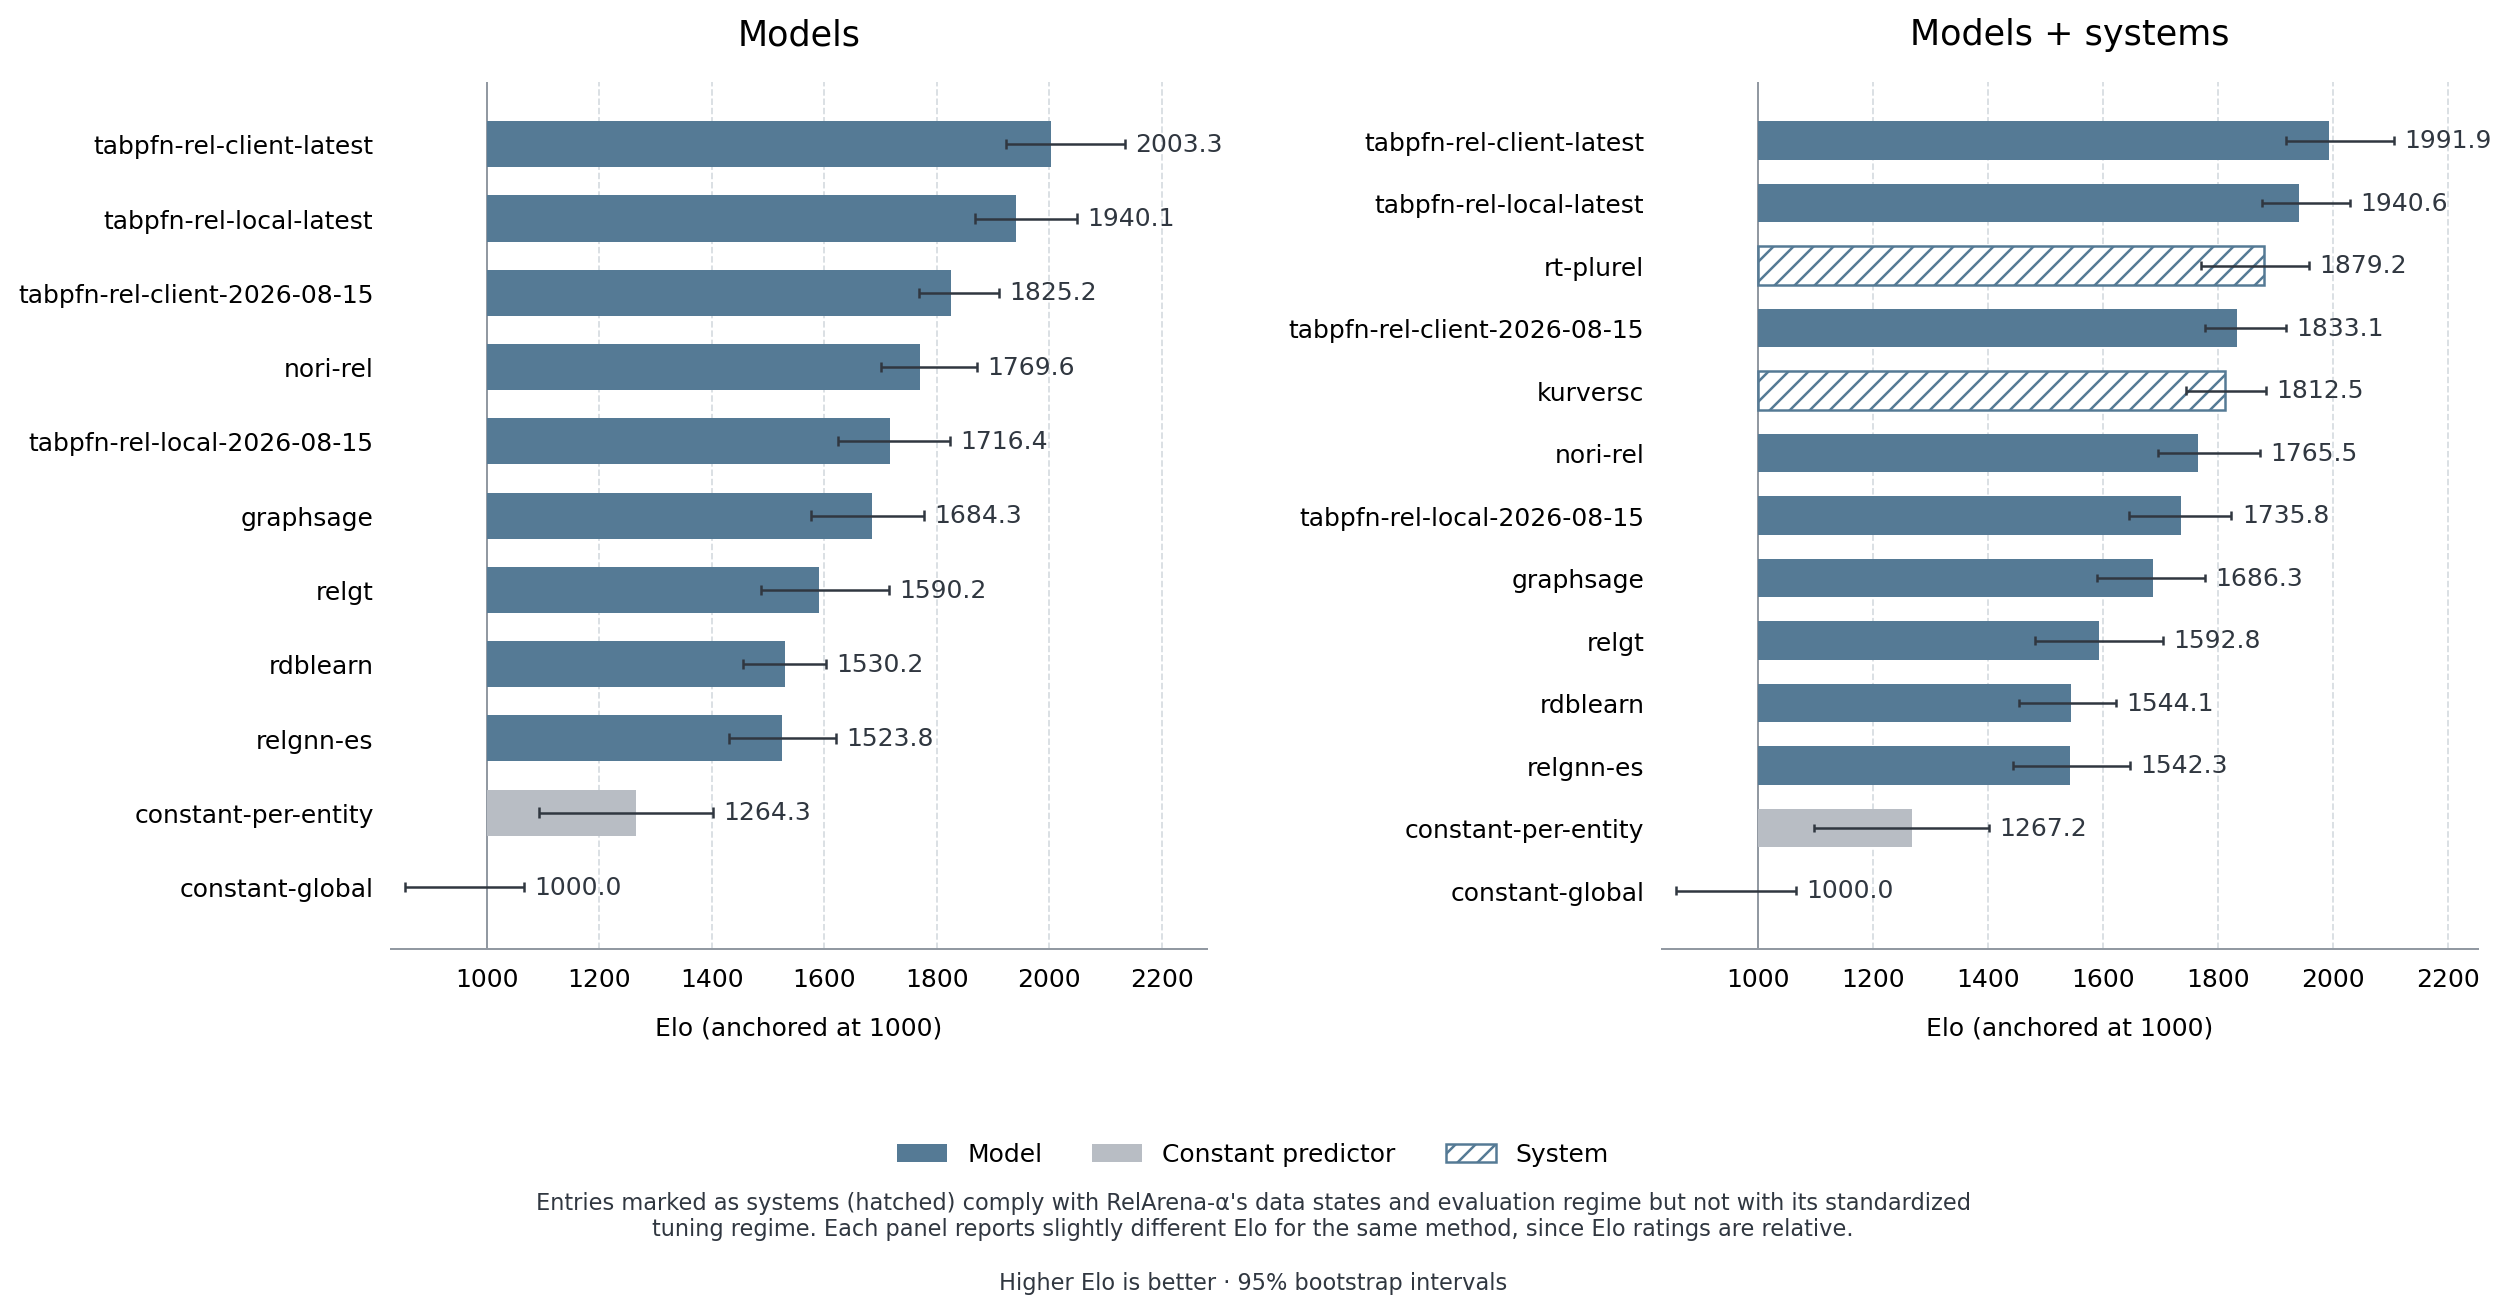
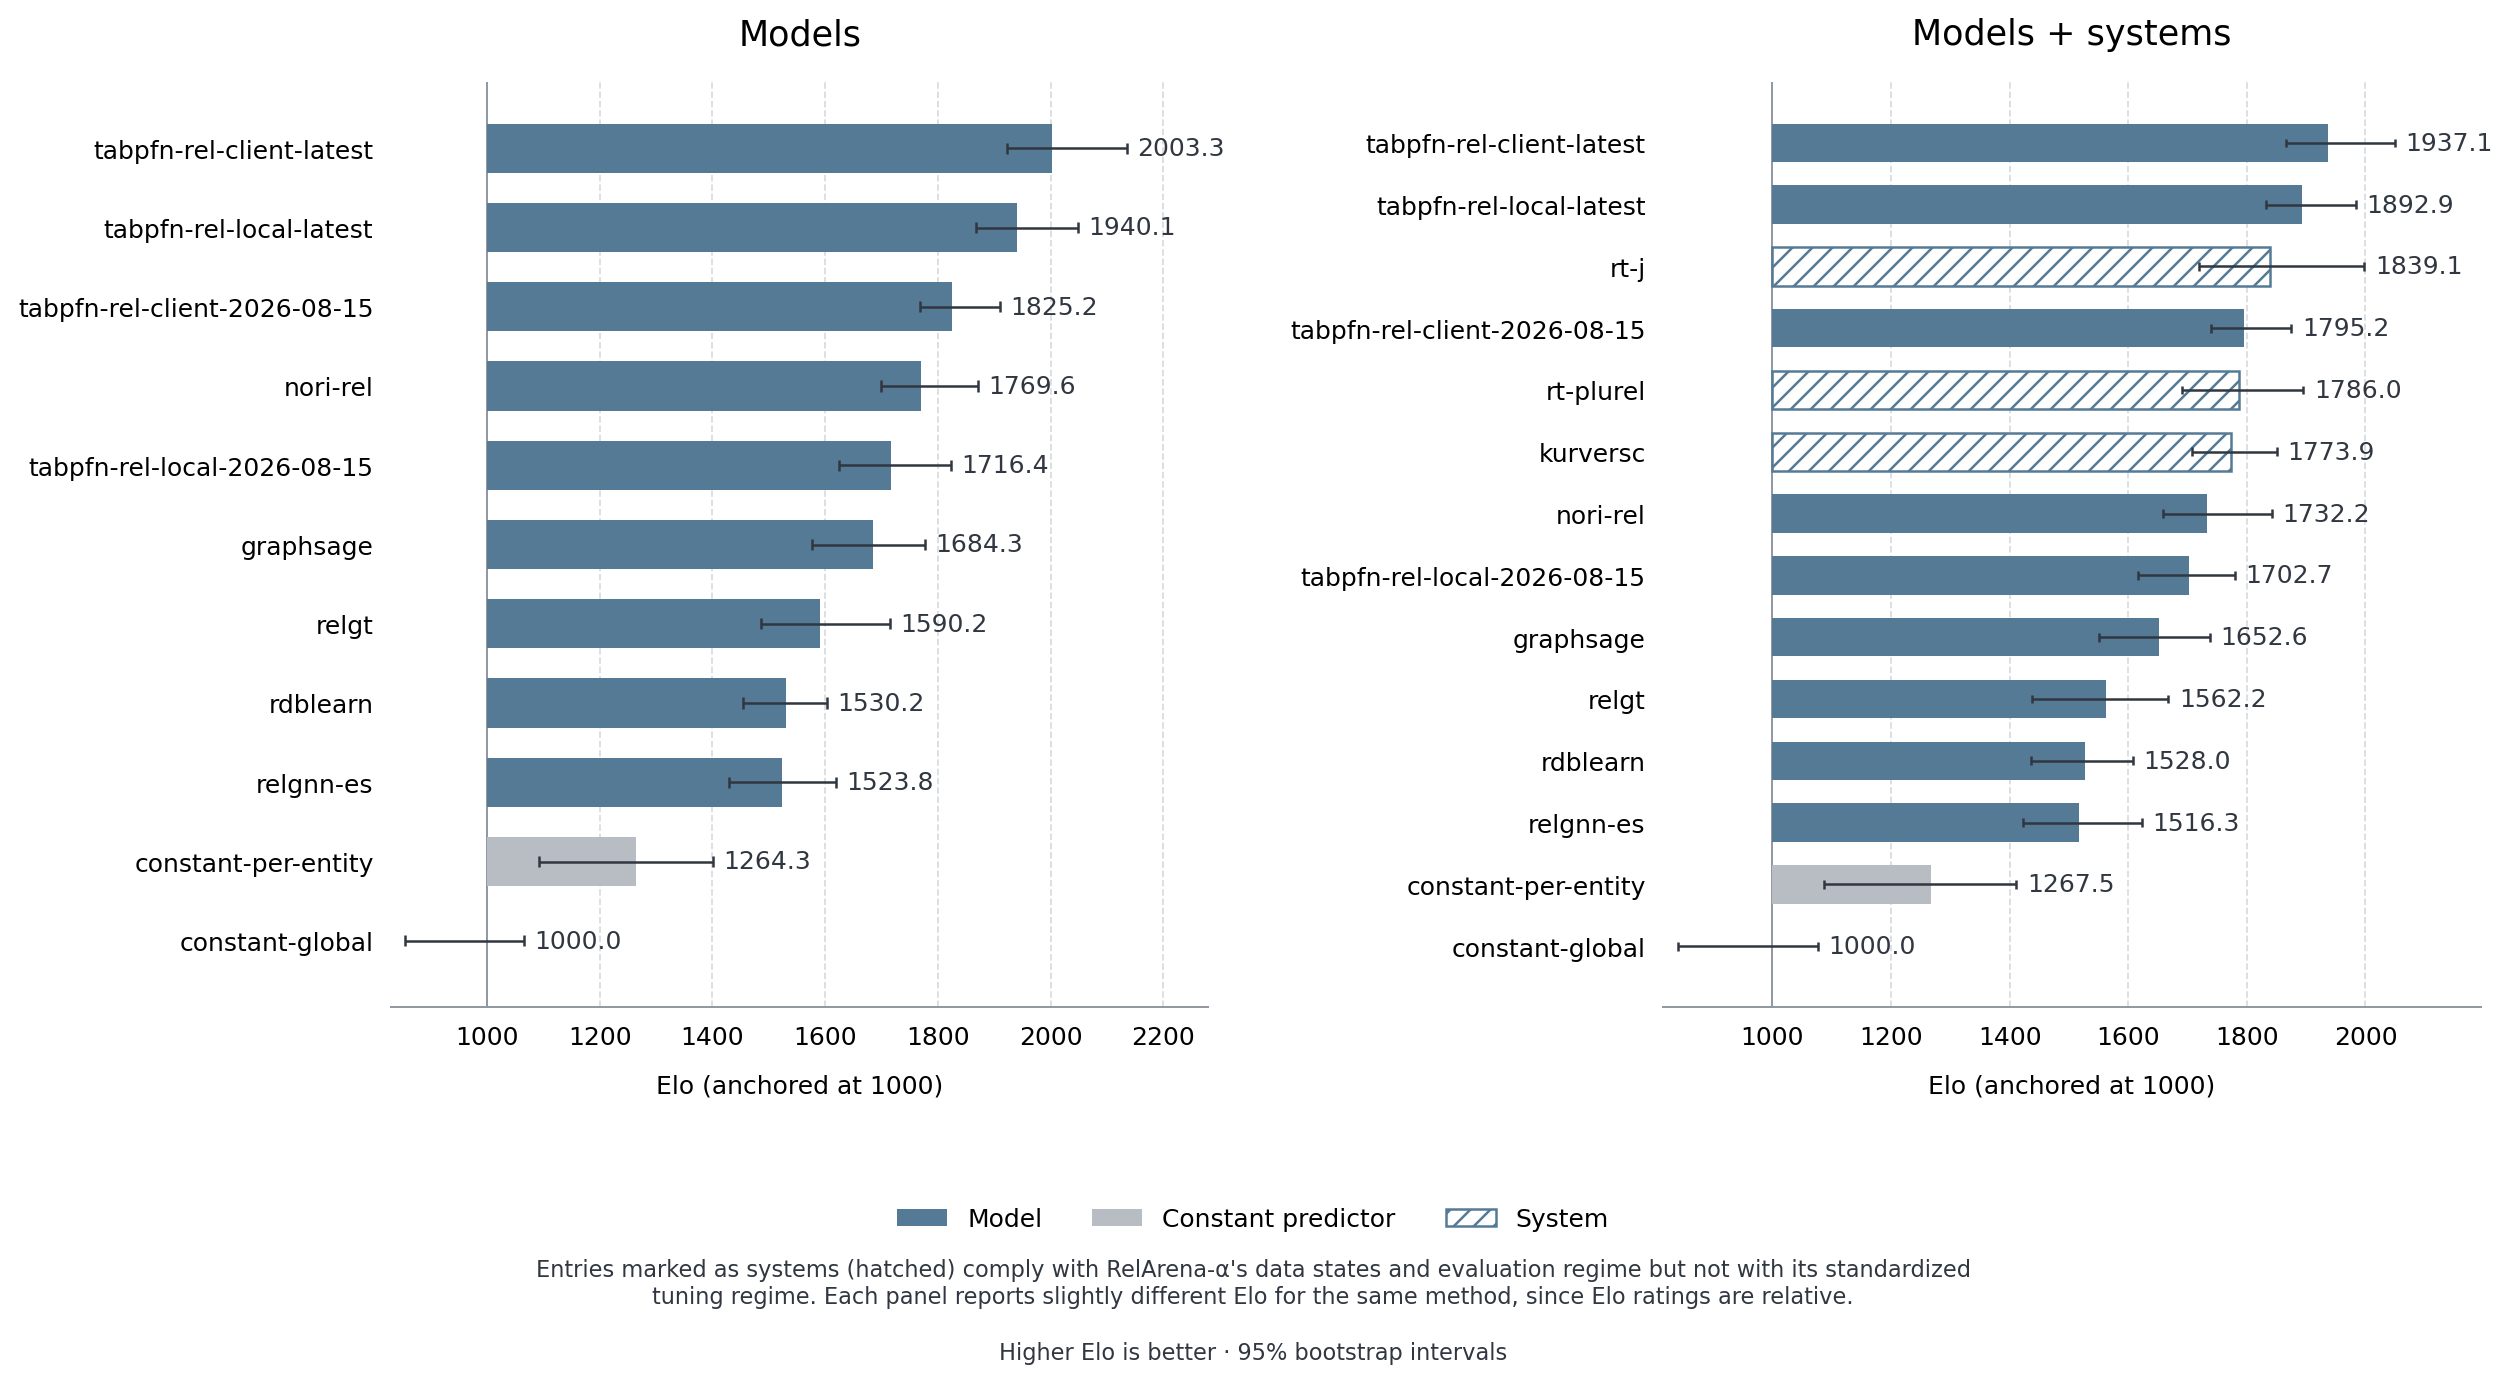
Report RT 1.10 results for rt-plurel and rt-j, default tokens_per_gpu to 2**17
Replace the rt-plurel rows with runs at this branch's head and add rt-j
(21 tasks each, seed 0, RTX PRO 6000), then regenerate the leaderboards.
2**18 tokens per GPU runs out of memory on a 96 GB RTX PRO 6000 under
rt 1.10.0, so the default is 2**17 everywhere.

diff --git a/packages/relarena/src/relarena/models/rt/config.py b/packages/relarena/src/relarena/models/rt/config.py
@@ -679,25 +679,14 @@ TOKENS_PER_GPU_ENV = "RELARENA_RT_TOKENS_PER_GPU"
 
 
 def tokens_per_gpu() -> int:
-    """Training tokens per forward per GPU: `2**18` on Blackwell, else `2**17`.
+    """Training tokens per forward per GPU: `2**17` unless `TOKENS_PER_GPU_ENV` is set.
 
-    A B200 holds twice what an A100 does, and filling it halves the number of
-    gradient-accumulation micro-steps per optimizer step. Upstream picks the
-    value from the slurm resource it asked for; here it is read off the device,
-    which is the same choice made locally, and `TOKENS_PER_GPU_ENV` overrides
-    both — for a node whose card is not what its capability implies, or to hold
-    the value fixed while timing two machines against each other.
+    `2**18` runs out of memory on a 96 GB RTX PRO 6000 under rt 1.10.0, at the
+    first training step after the step-0 eval; the reported results ran at `2**17`.
     """
     override = os.environ.get(TOKENS_PER_GPU_ENV)
     if override:
         return int(override)
-    try:
-        import torch
-
-        if torch.cuda.is_available() and torch.cuda.get_device_capability()[0] >= 10:
-            return 2**18
-    except Exception:  # pragma: no cover - absent torch/CUDA is not an error
-        pass
     return 2**17
 
 

diff --git a/README.md b/README.md
@@ -89,20 +89,21 @@ they do not measure variation across training seeds. The plots and tables show t
 
 | Rank | Method | Kind | Elo | 95% bootstrap interval |
 |---:|---|---|---:|---:|
-| 1 | tabpfn-rel-client-latest | Model | 1991.9 | 1917.4–2106.0 |
-| 2 | tabpfn-rel-local-latest | Model | 1940.6 | 1876.2–2029.6 |
-| 3 | rt-plurel | System | 1879.2 | 1770.3–1956.9 |
-| 4 | tabpfn-rel-client-2026-08-15 | Model | 1833.1 | 1776.8–1917.6 |
-| 5 | kurversc | System | 1812.5 | 1743.1–1882.1 |
-| 6 | nori-rel | Model | 1765.5 | 1694.8–1872.4 |
-| 7 | tabpfn-rel-local-2026-08-15 | Model | 1735.8 | 1644.8–1822.9 |
-| 8 | graphsage | Model | 1686.3 | 1588.9–1776.7 |
-| 9 | relgt | Model | 1592.8 | 1481.8–1704.3 |
-| 10 | rdblearn | Model | 1544.1 | 1453.2–1621.7 |
-| 11 | relgnn-es | Model | 1542.3 | 1442.8–1647.1 |
-| 12 | lightgbm | Model | 1366.3 | 1215.6–1476.9 |
-| 13 | constant-per-entity | Model | 1267.2 | 1097.4–1401.0 |
-| 14 | constant-global | Model | 1000.0 | 858.0–1065.9 |
+| 1 | tabpfn-rel-client-latest | Model | 1937.1 | 1865.8–2049.0 |
+| 2 | tabpfn-rel-local-latest | Model | 1892.9 | 1832.2–1983.2 |
+| 3 | rt-j | System | 1839.1 | 1718.7–1998.2 |
+| 4 | tabpfn-rel-client-2026-08-15 | Model | 1795.2 | 1739.4–1875.2 |
+| 5 | rt-plurel | System | 1786.0 | 1690.7–1895.1 |
+| 6 | kurversc | System | 1773.9 | 1707.9–1850.5 |
+| 7 | nori-rel | Model | 1732.2 | 1659.0–1842.1 |
+| 8 | tabpfn-rel-local-2026-08-15 | Model | 1702.7 | 1617.3–1779.5 |
+| 9 | graphsage | Model | 1652.6 | 1551.3–1737.4 |
+| 10 | relgt | Model | 1562.2 | 1437.6–1667.5 |
+| 11 | rdblearn | Model | 1528.0 | 1436.1–1607.3 |
+| 12 | relgnn-es | Model | 1516.3 | 1422.6–1622.6 |
+| 13 | lightgbm | Model | 1361.3 | 1171.5–1490.8 |
+| 14 | constant-per-entity | Model | 1267.5 | 1086.9–1411.2 |
+| 15 | constant-global | Model | 1000.0 | 841.1–1076.7 |
 
 </details>
 
@@ -633,7 +634,7 @@ as an experimental final-fit variant.
 | `relgnn` | RelGNN full-data refit | relational GNN | model | experimental variant | train + val | `relgnn` |
 | `relgt` | RelGT | relational transformer | model | report | best-validation checkpoint | `relgt` |
 | `rt-plurel` | RT-PluRel | pretrained relational transformer, fine-tuned per task | **system** | report | train + val | `rt` |
-| `rt-j` | RT-J | pretrained relational transformer, fine-tuned per task | **system** | pending evaluation | train + val | `rt` |
+| `rt-j` | RT-J | pretrained relational transformer, fine-tuned per task | **system** | 21 tasks | train + val | `rt` |
 
 The report presents `relgnn-es` simply as **RelGNN**, because that published-style
 best-validation-checkpoint regime performed better in our runs. The regular `relgnn` identifier

diff --git a/docs/tuning-regime.md b/docs/tuning-regime.md
@@ -102,10 +102,10 @@ definitely not reasonable. Currently, all methods but `relgt` use a fixed-size
 search space per dataset, i.e. they don't adjust it to the dataset size. In
 general, methods should not aim to exhaust the 24h allowance. Nearly all run
 for at most 12h of recorded runtime per task, even on the largest tasks
-(excluding cached pre-processing). Only `relgt` and `rt-plurel` currently break
-the 12h barrier, both excluding their pre-processing: `relgt` with up to 41h of
-pure GPU time on `rel-avito/user-visits`, and `rt-plurel` with up to 16.3h on
-the largest `rel-amazon` task.
+(excluding cached pre-processing). Only `relgt`, `rt-plurel` and `rt-j`
+currently break the 12h barrier, all excluding their pre-processing: `relgt`
+with up to 41h of pure GPU time on `rel-avito/user-visits`, and `rt-plurel` and
+`rt-j` with up to 16.1h and 17.3h on `rel-amazon` tasks.
 
 ## What we ran
 
@@ -149,7 +149,8 @@ hours (`rdblearn`, `tabpfn-rel`, RelGNN, `relgt`):_
 | `tabpfn-rel-client-2026-08-15` | 3 | 73.4 min | 15.2 min | 63.3 min | 87.5 min | 93.2 min | 99.8 min |
 | `relgnn-es` (RelGNN) | 10 | 68.1 min | 1.4 min | 5.4 min | 26.6 min | 92.1 min | 313.4 min |
 | `relgt` | 9 | 430.9 min | 36.1 min | 124.1 min | 149.8 min | 463.8 min | 2233.0 min |
-| `rt-plurel` | — | 351.0 min | 109.2 min | 129.1 min | 231.4 min | 515.5 min | 979.1 min |
+| `rt-plurel` | — | 446.6 min | 105.6 min | 139.7 min | 357.9 min | 815.9 min | 966.6 min |
+| `rt-j` | — | 410.0 min | 101.6 min | 140.7 min | 189.0 min | 697.0 min | 1040.5 min |
 
 Total runtime is per (model, dataset, task, seed). For tuned model runs, it sums
 inner fit and prediction time across all trials, plus the selected config's outer
@@ -175,9 +176,9 @@ operator choices. Five caveats on reading them:
   configurations. A sampled space evaluates its default plus `n_trials` random
   samples; a fixed grid evaluates at most its first `n_trials` entries; an
   untunable model evaluates only its default.
-- `rt-plurel` is a system and has no `n_trials`. Its `time_total` includes the
-  training-step search with in-loop validation, the context-configuration grid,
-  the reporting arm, and final prediction.
+- `rt-plurel` and `rt-j` are systems and have no `n_trials`. Their `time_total`
+  includes the training-step search with in-loop validation, the
+  context-configuration grid, the reporting arm, and final prediction.
 - For `rdblearn` and the `tabpfn-rel` variants, the requested budget equals the
   grid size (`rdblearn` 6 = 2 TFMs × 3 depths; `tabpfn-rel` 3 = depths 2–4),
   meaning "run the whole grid" rather than a budget decision. The free choices

diff --git a/baseline_results/README.md b/baseline_results/README.md
@@ -14,19 +14,21 @@ A snapshot of RelArena baseline runs over the RelBench-v1 entity-task grid
   `relarena.evaluation.compute_leaderboard`.
 
 Models: `constant-global`, `constant-per-entity`, `lightgbm`, `graphsage`, `rdblearn`,
-`tabpfn-rel-local-2026-08-15`, `tabpfn-rel-client-2026-08-15`, `nori-rel`, `relgnn-es`, `relgt`, `rt-plurel`.
+`tabpfn-rel-local-2026-08-15`, `tabpfn-rel-client-2026-08-15`, `nori-rel`, `relgnn-es`, `relgt`, `rt-plurel`, `rt-j`.
 (`constant-global` predicts one global optimal constant; `constant-per-entity` predicts each
 entity's own optimal constant, falling back to the global one for entities absent
 from train; `relgnn-es` is RelGNN scored at its best-val checkpoint instead
 of a train+val refit; `relgt` is the Relational Graph Transformer, which reports its
 own best-val checkpoint (`refit_on_full_data=False`) per its published protocol;
 `tabpfn-rel-client-2026-08-15` is the hosted-API variant and was launched explicitly because
-routine sweeps should not spend service quota; `rt-plurel` is the Relational
-Transformer, registered as a **system** — see the package README.)
+routine sweeps should not spend service quota; `rt-plurel` and `rt-j` are the
+Relational Transformer warm-started from `stanford-star/rt-plurel` and
+`stanford-star/rt-j`, registered as **systems** — see the package README.)
 
-`rt-plurel` rows use the native system schema. Their `test_score` is the real
-8-seed context ensemble over the whole test split, and `time_total` is the sum
-of the original selection, reporting, and prediction timings.
+`rt-plurel` and `rt-j` rows use the native system schema. Their `test_score` is
+the real 8-seed context ensemble over the whole test split, and `time_total` is
+the wall-clock time of the system run (step selection, context search,
+reporting arm, and prediction), excluding cache warming.
 - `experiment_results.csv` — same schema as `results.csv`, for exploratory runs kept
   for reference but deliberately **excluded from the default leaderboard** (nothing
   loads it automatically; pass it explicitly if you want it). Currently it contains
